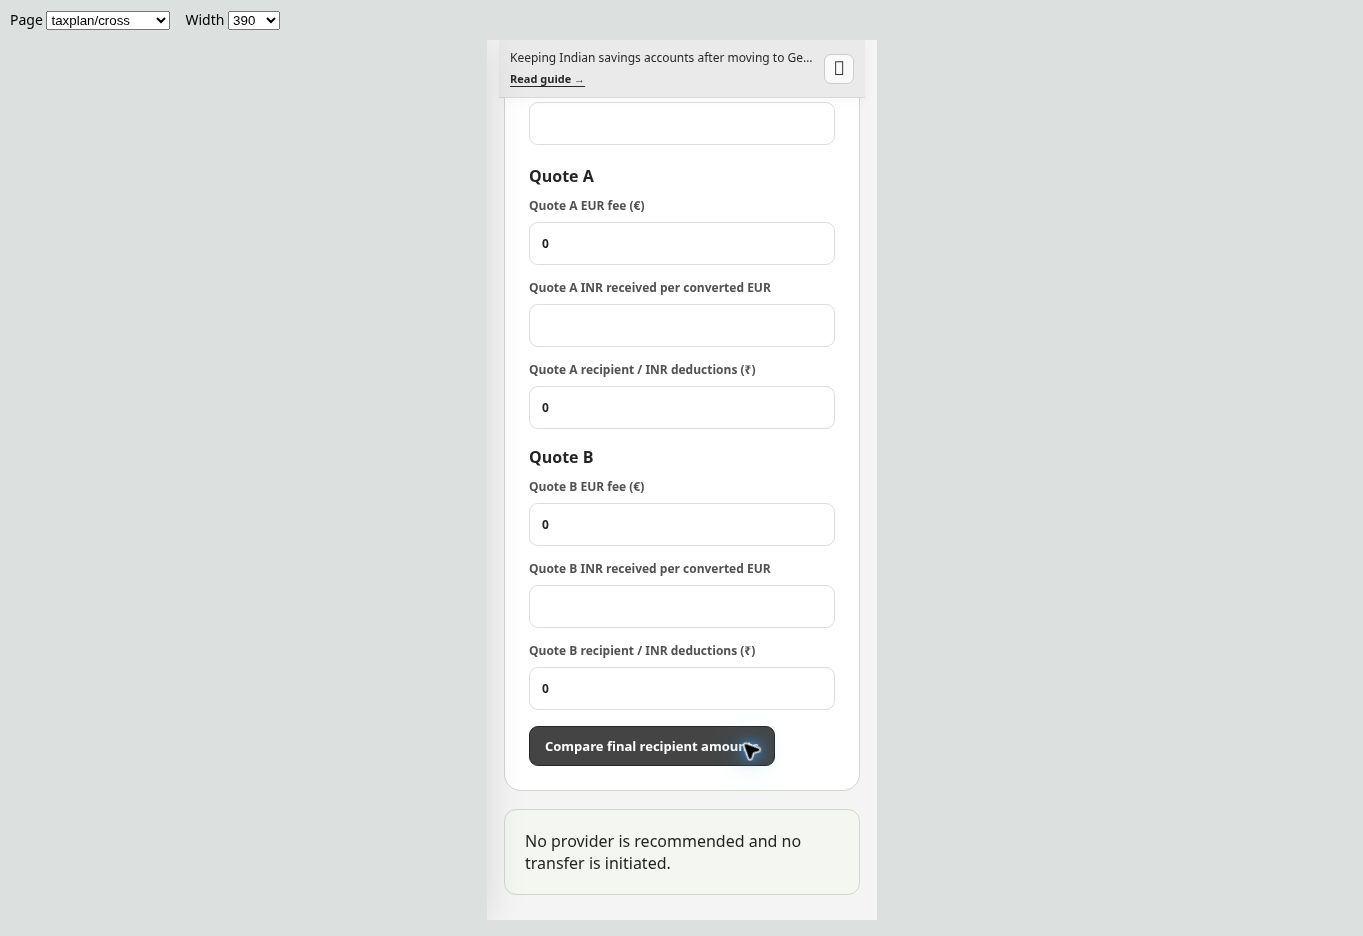
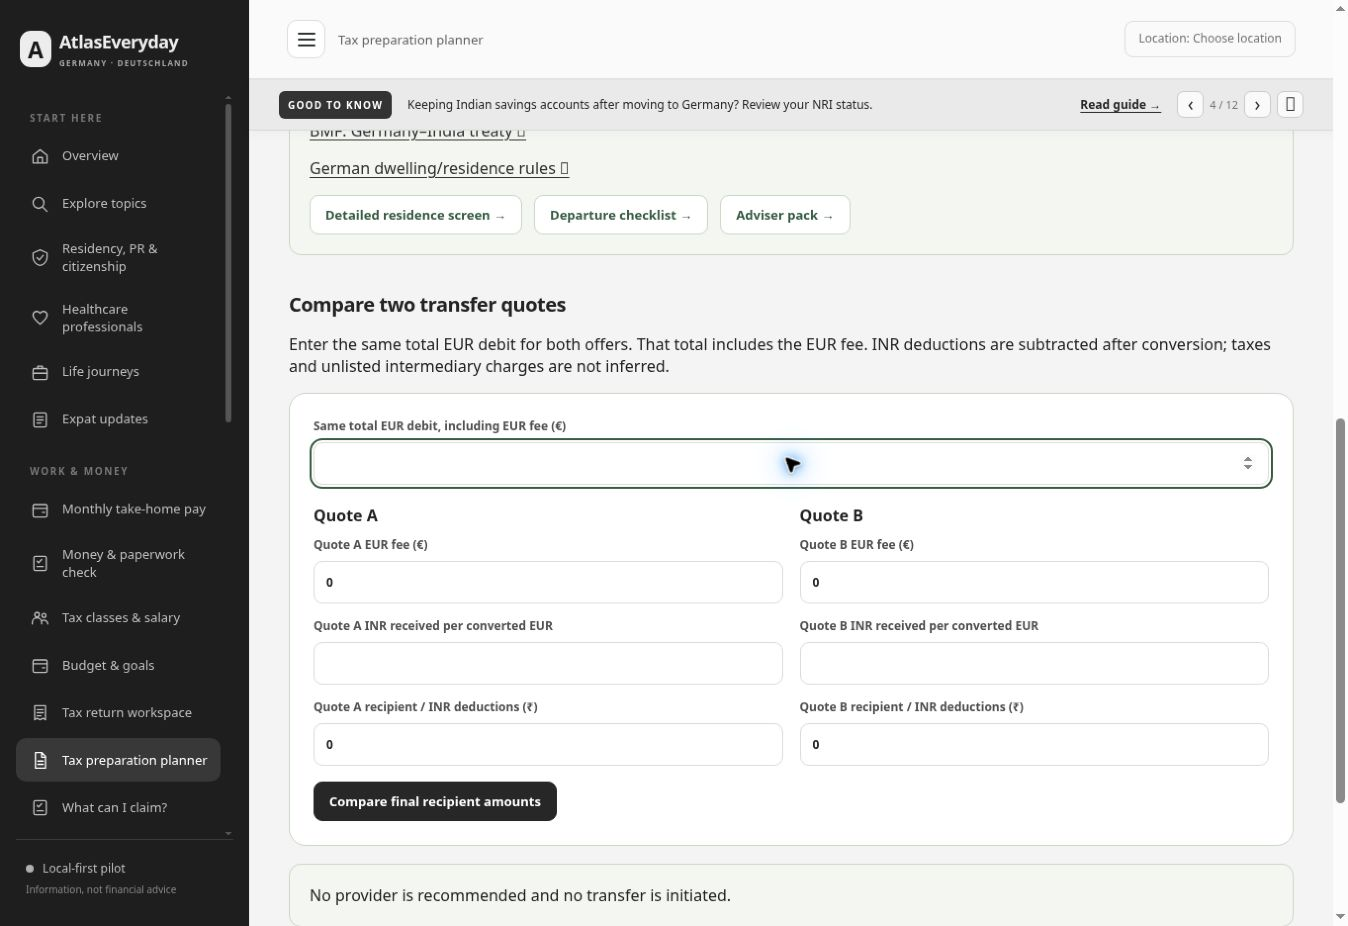
Record published spacing review and live layout evidence

diff --git a/REVIEWS/2026-11-14-spacing-review.md b/REVIEWS/2026-11-14-spacing-review.md
@@ -17,6 +17,8 @@ Owner requested a visual review and small spacing corrections, preserving the ex
 - Existing **156 tests pass**. Asset versions match and `git diff --check` passes. Changes are CSS plus the refreshed stylesheet/build references; no calculation or data-storage changes.
 - Browser viewport checks are not physical-device, screen-reader, security or full-site regression certification. Scheduled audits remain pending.
 
-![Responsive transfer comparison after spacing correction](2026-11-14-spacing-review.jpg)
+![Published transfer comparison after spacing correction](2026-11-14-spacing-review.jpg)
 
-Public deployment and live verification follow this combined release. The previous main head `6218bd5a8f7511c15b4a075db771975214d9af50` had successful Pages run `43603792779` before release preparation.
+Feature commit `fbe7b8c41d3481c9692e2dde603745d56066e974` passed [Pages deployment 43605524149](https://github.com/nikunjsb/Finbridge/actions/runs/43605524149). A normal public-page reload served build `1a3ac68f2174`; live checks confirmed 14px transfer-field gaps, 16px action clearance, shrinking insurance fields and investment target positioning at 148px. The screenshot above is from the published site.
+
+The previous main head `6218bd5a8f7511c15b4a075db771975214d9af50` had successful Pages run `43603792779` before release preparation.
